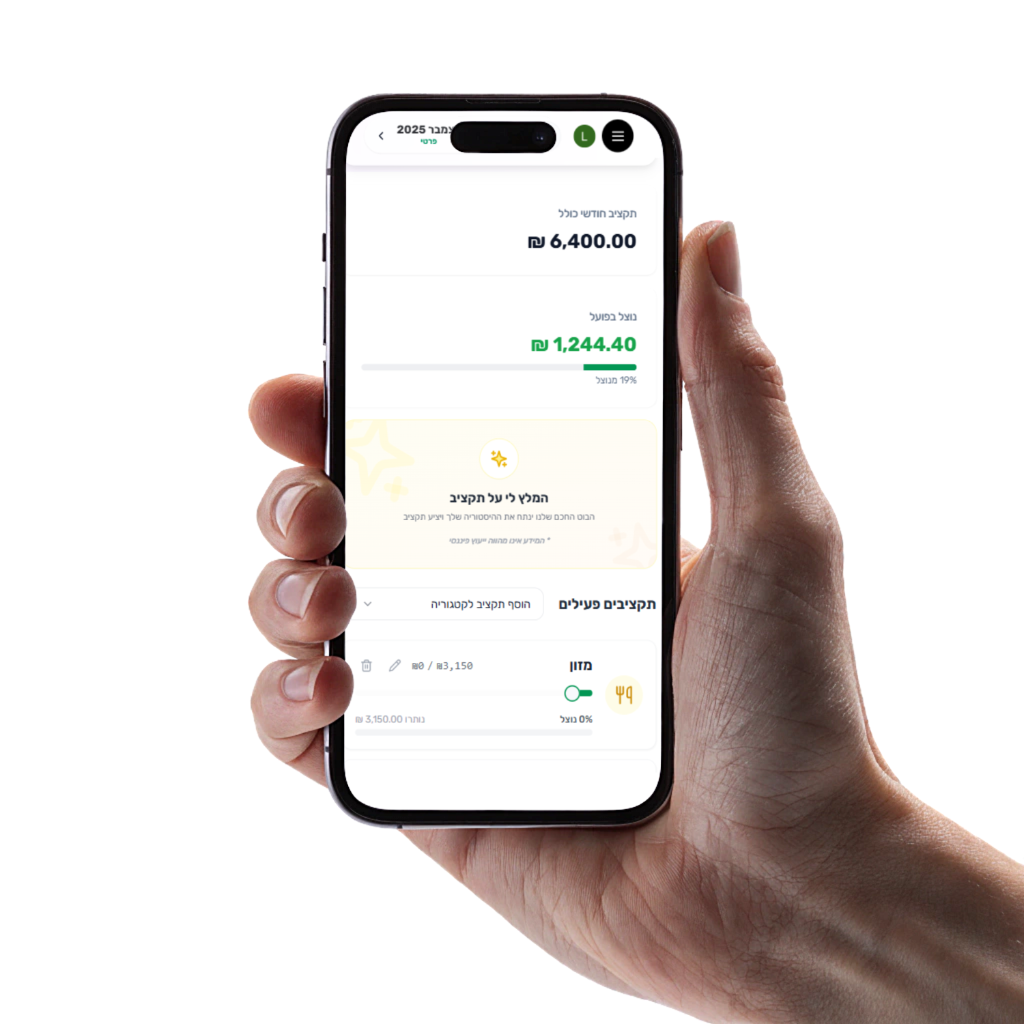
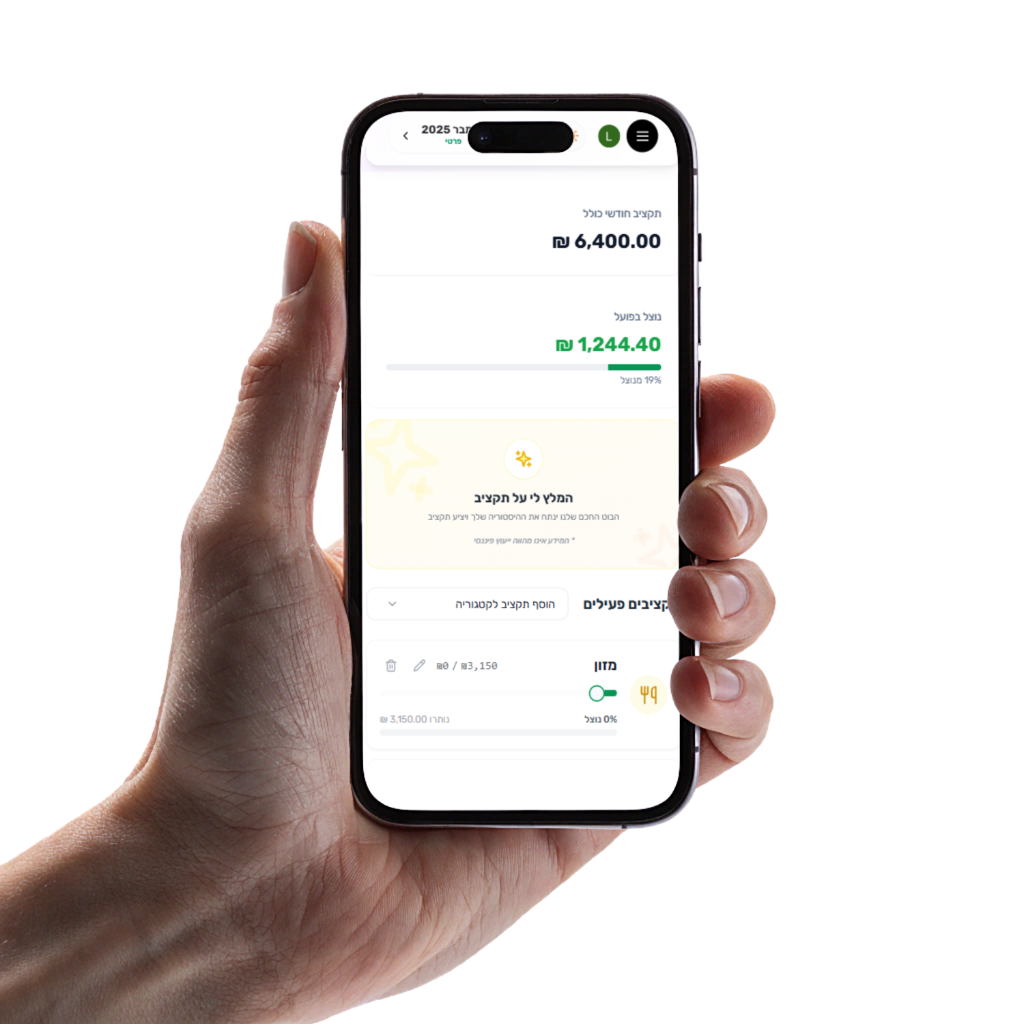
Refine Personal Landing Page: Update mockup image and align to left

diff --git a/src/app/personal/page.tsx b/src/app/personal/page.tsx
@@ -391,7 +391,7 @@ function Section({ section, isActive, index }: { section: any, isActive: boolean
                         initial={{ opacity: 0, scale: 0.8 }}
                         animate={isActive ? { opacity: 1, scale: 1 } : { opacity: 0, scale: 0.8 }}
                         transition={{ duration: 0.8, delay: 0.4 }}
-                        className="relative h-[400px] md:h-[600px] hidden md:flex items-center justify-center p-4"
+                        className={`relative h-[400px] md:h-[600px] hidden md:flex items-center p-4 ${index === 0 ? 'justify-end' : 'justify-center'}`}
                     >
                         {section.image ? (
                             <div className="relative w-full h-full flex items-center justify-center">
